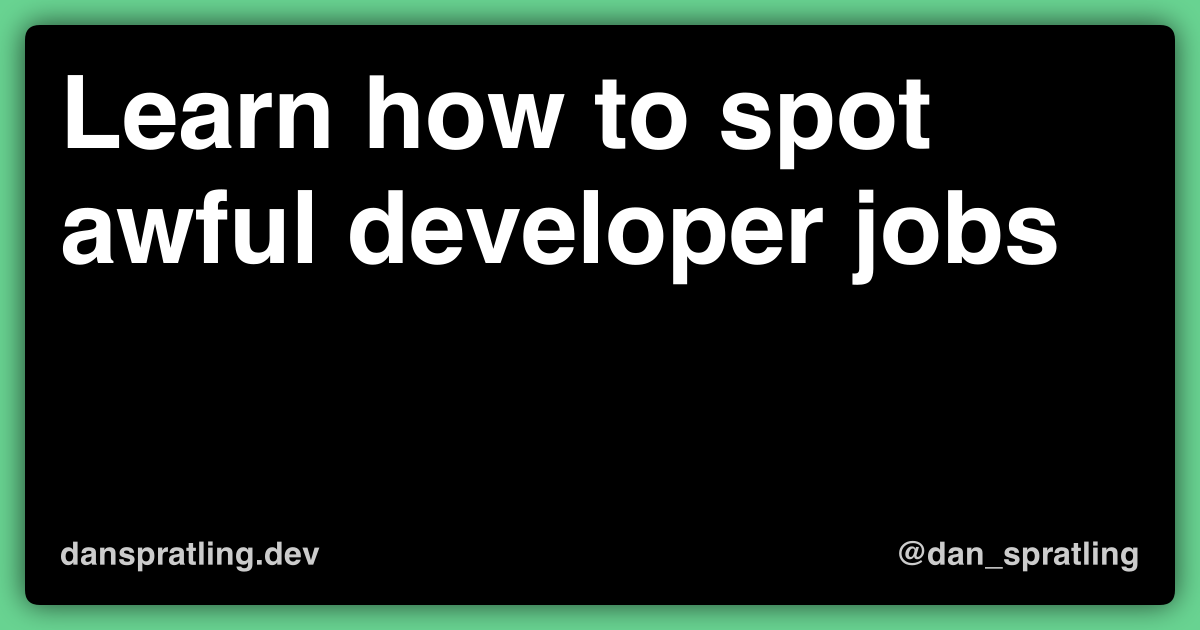
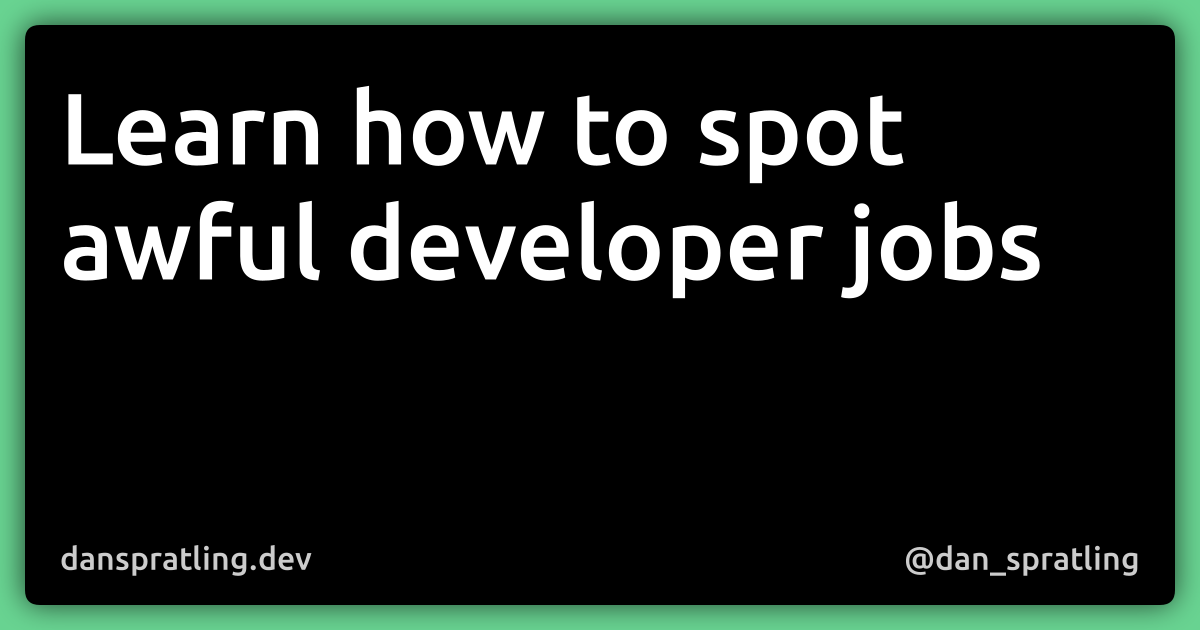
Registers ubuntu font for social images

diff --git a/functions/socialImage.js b/functions/socialImage.js
@@ -1,10 +1,11 @@
 const fs = require('fs')
 const { registerFont, createCanvas } = require('canvas')
-// registerFont('static/fonts/ubuntu/4iCv6KVjbNBYlgoCjC3jsGyL.woff', {
-//   family: 'Ubuntu',
-// })
 
 function generateImage({ title, slug }) {
+  registerFont('static/fonts/ubuntu/4iCv6KVjbNBYlgoCjC3jsGyL.woff', {
+    family: 'Ubuntu',
+  })
+
   //define canvas size
   let width = 1200
   let height = 630
@@ -32,7 +33,7 @@ function generateImage({ title, slug }) {
 
   //set the copy style
   // context.font = 'bold 82pt Ubuntu'
-  context.font = 'bold 76pt Ubuntu'
+  context.font = 'bold 76pt "Ubuntu"'
   context.textAlign = 'left'
   context.textBaseline = 'top'
   context.fillStyle = '#fff'
